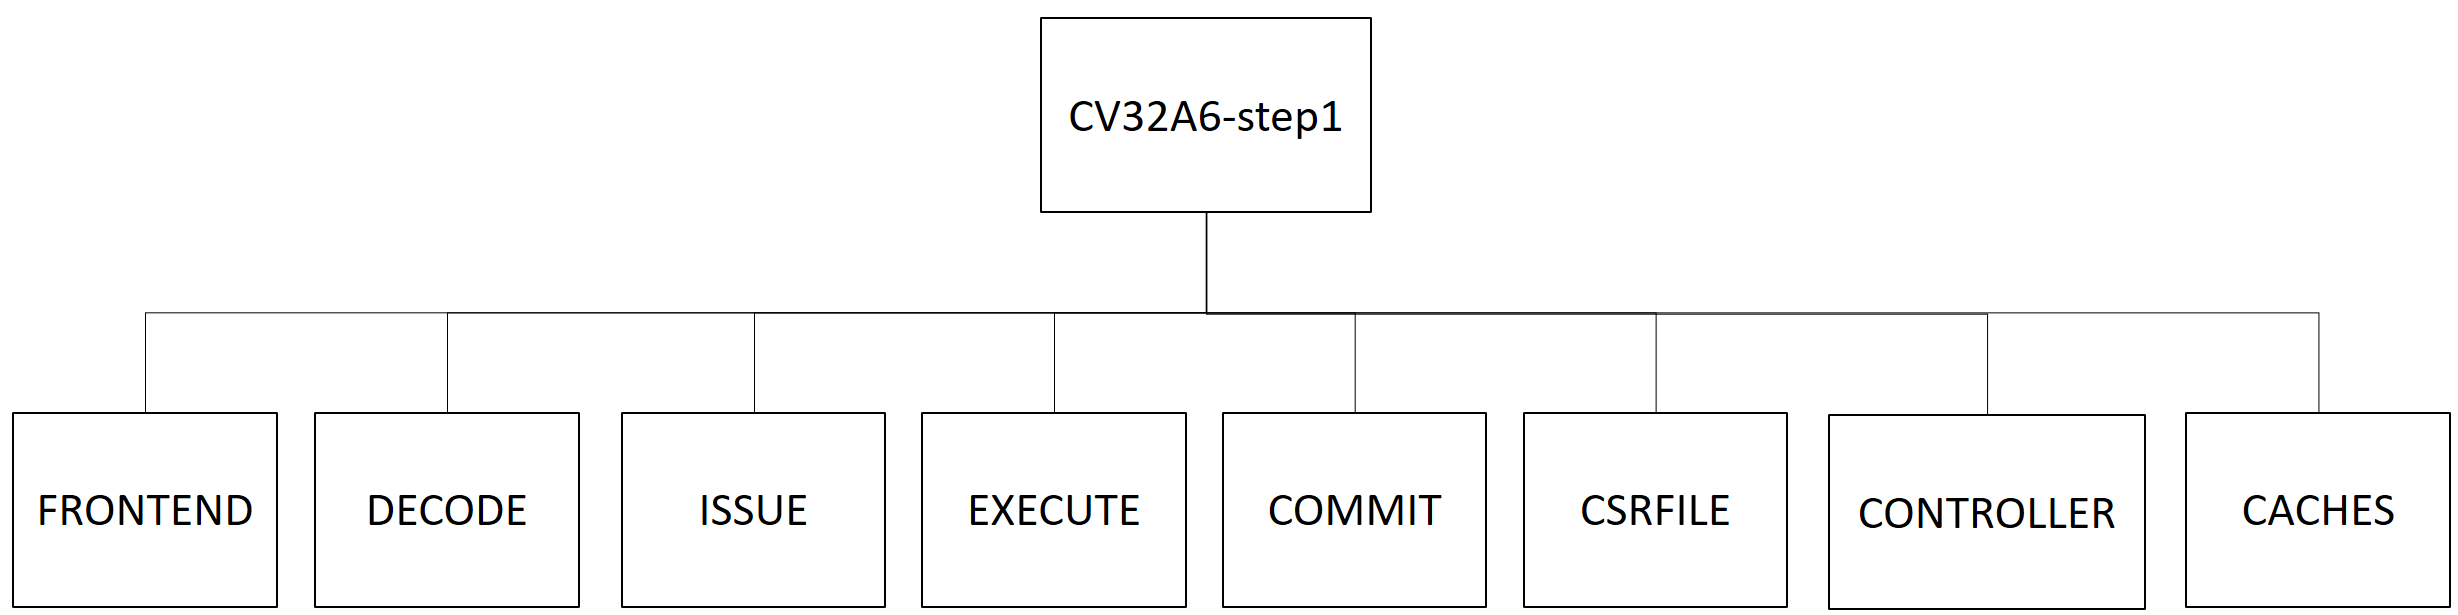
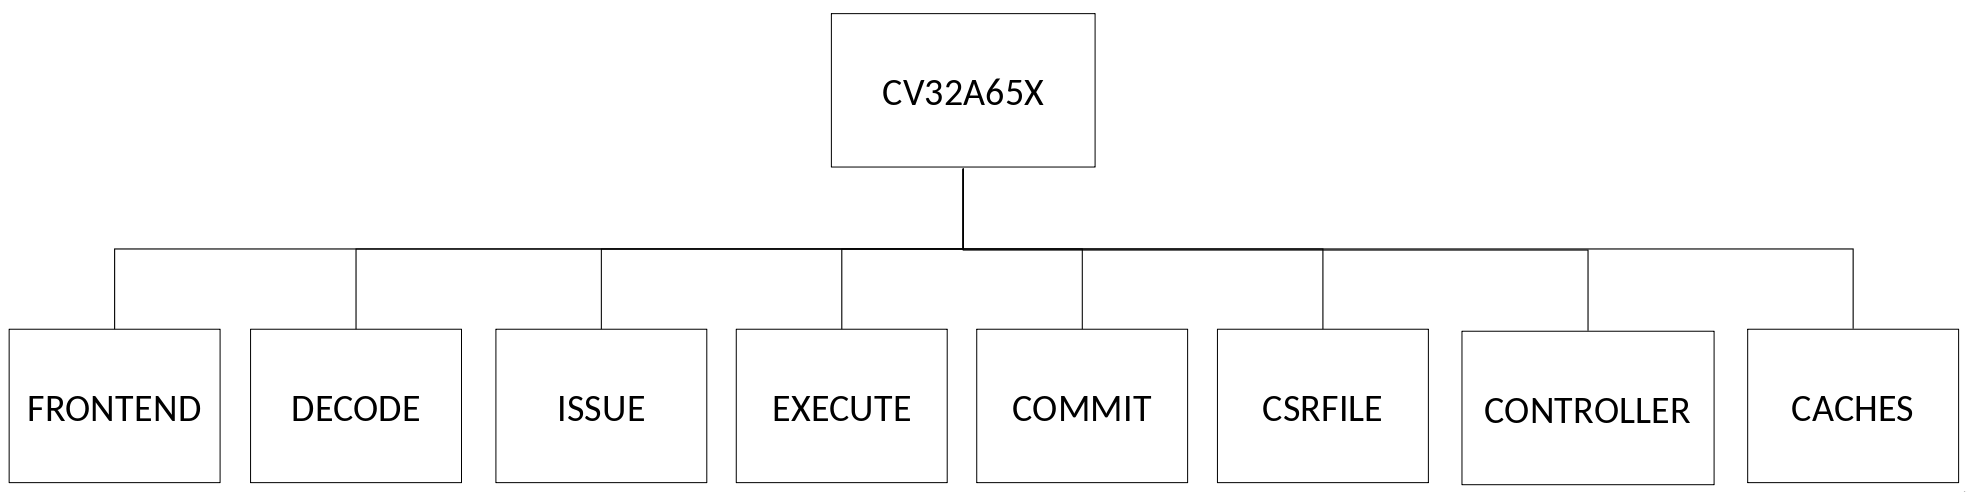
Improve documentation by adding submodule images

diff --git a/docs/04_cv32a65x_design/source/architecture.rst b/docs/04_cv32a65x_design/source/architecture.rst
@@ -12,23 +12,27 @@
 Architecture and Modules
 ========================
 
-The CV32A6 v0.1.0 subsystem is composed of 8 modules.
+The CV32A65X is fully synthesizable. It has been designed mainly for ASIC designs, but FPGA synthesis is supported as well.
+
+For ASIC synthesis, the whole design is completely synchronous and uses positive-edge triggered flip-flops. The core occupies an area of about 80 kGE. The clock frequency can be more than 1GHz depending of technology.
+
+The CV32A65X subsystem is composed of 8 modules.
 
 .. figure:: ../images/subsystems.png
    :name: CV32A6 v0.1.0 modules
    :align: center
    :alt:
 
-   CV32A6 v0.1.0 modules
+   CV32A65X modules
 
 Connections between modules are illustrated in the following block diagram. FRONTEND, DECODE, ISSUE, EXECUTE, COMMIT and CONTROLLER are part of the pipeline. And CACHES implements the instruction and data caches and CSRFILE contains registers.
 
-.. figure:: ../images/CVA6_subsystems.png
-   :name: CVA6 subsystem
+.. figure:: ../images/CV32A65X_subsystems.png
+   :name: CV32A65X subsystem
    :align: center
    :alt:
 
-   CV32A6 v0.1.0 pipeline and modules
+   CV32A65X pipeline and modules
 
 .. toctree::
    :hidden:

diff --git a/docs/04_cv32a65x_design/source/cv32a6_execute.rst b/docs/04_cv32a65x_design/source/cv32a6_execute.rst
@@ -22,18 +22,61 @@ Functionality
 
 TO BE COMPLETED
 
-***************************
-Architecture and Submodules
-***************************
+**********
+Submodules
+**********
+
+.. figure:: ../images/ex_stage_modules.png
+   :name: EX_STAGE submodules
+   :align: center
+   :alt:
+
+   EX_STAGE submodules
+
 
 ALU
 ===
 
+TO BE COMPLETED
+
+
 Branch Unit
 ===========
 
+TO BE COMPLETED
+
+
+CSR Buffer
+==========
+
+TO BE COMPLETED
+
+
+Mult
+====
+
+TO BE COMPLETED
+
+.. figure:: ../images/mult_modules.png
+   :name: mult submodules
+   :align: center
+   :alt:
+
+   mult submodules
+
+
 Load Store Unit (LSU)
 =====================
+
+TO BE COMPLETED
+
+.. figure:: ../images/load_store_unit_modules.png
+   :name: load_store_unit submodules
+   :align: center
+   :alt:
+
+   load_store_unit submodules
+
 
 ----------------------
 Memory Management Unit
@@ -1616,8 +1659,8 @@ The first step when a flush is triggered is to check whether the Page Table Entr
 PMA/PMP Checks
 ==============
 
-Multipler
-=========
 
-CSR Buffer
-==========
+CVXIF_fu
+========
+
+TO BE COMPLETED

diff --git a/docs/04_cv32a65x_design/source/cva6_issue_stage.rst b/docs/04_cv32a65x_design/source/cva6_issue_stage.rst
@@ -9,8 +9,8 @@
 
 .. _CVA6_ISSUE_STAGE:
 
-ID_STAGE Module
-===============
+ISSUE_STAGE Module
+==================
 
 Description
 -----------
@@ -25,5 +25,27 @@ The module is connected to:
 
 Functionality
 -------------
+
+TO BE COMPLETED
+
+
+Submodules
+----------
+
+.. figure:: ../images/issue_stage_modules.png
+   :name: ISSUE_STAGE submodules
+   :align: center
+   :alt:
+
+   ISSUE_STAGE submodules
+
+Scoreboard
+~~~~~~~~~~
+
+TO BE COMPLETED
+
+
+Issue_read_operands
+~~~~~~~~~~~~~~~~~~~
 
 TO BE COMPLETED

diff --git a/docs/04_cv32a65x_design/source/subsystem.rst b/docs/04_cv32a65x_design/source/subsystem.rst
@@ -26,7 +26,12 @@ At least 6 cycles are needed to execute one instruction.
 Connection with other sub-systems
 ---------------------------------
 
-[TO BE COMPLETED]
+The submodule is connected to :
+
+* NOC interconnect provides memory content
+* COPROCESSOR connects through CV-X-IF coprocessor interface protocol
+* TRACER provides support for verification
+* TRAP provides traps inputs
 
 
 Parameter configuration

diff --git a/docs/04_cv32a65x_design/source/cva6_id_stage.rst b/docs/04_cv32a65x_design/source/cva6_id_stage.rst
@@ -27,3 +27,27 @@ Functionality
 -------------
 
 TO BE COMPLETED
+
+
+Submodules
+----------
+
+.. figure:: ../images/id_stage_modules.png
+   :name: ID_STAGE submodules
+   :align: center
+   :alt:
+
+   ID_STAGE submodules
+
+
+Decoder
+~~~~~~~
+
+TO BE COMPLETED
+
+
+Compressed_decoder
+~~~~~~~~~~~~~~~~~~
+
+TO BE COMPLETED
+

diff --git a/docs/04_cv32a65x_design/source/cv32a6_frontend.rst b/docs/04_cv32a65x_design/source/cv32a6_frontend.rst
@@ -80,8 +80,8 @@ Memory *and MMU (MMU is not enabled in CV32A6 v0.1.0)* can feedback potential ex
 
 
 
-Architecture and Submodules
----------------------------
+Submodules
+----------
 
 .. figure:: ../images/frontend_modules.png
    :name: FRONTEND submodules

diff --git a/docs/04_cv32a65x_design/source/index.rst b/docs/04_cv32a65x_design/source/index.rst
@@ -17,7 +17,6 @@ Editor: **Jean Roch Coulon**
    :caption: Contents:
 
    intro
-   overview
    subsystem
    functionality
    architecture

diff --git a/docs/04_cv32a65x_design/source/cva6_commit_stage.rst b/docs/04_cv32a65x_design/source/cva6_commit_stage.rst
@@ -27,3 +27,4 @@ Functionality
 -------------
 
 TO BE COMPLETED
+

diff --git a/docs/04_cv32a65x_design/source/cva6_controller.rst b/docs/04_cv32a65x_design/source/cva6_controller.rst
@@ -27,3 +27,4 @@ Functionality
 -------------
 
 TO BE COMPLETED
+
